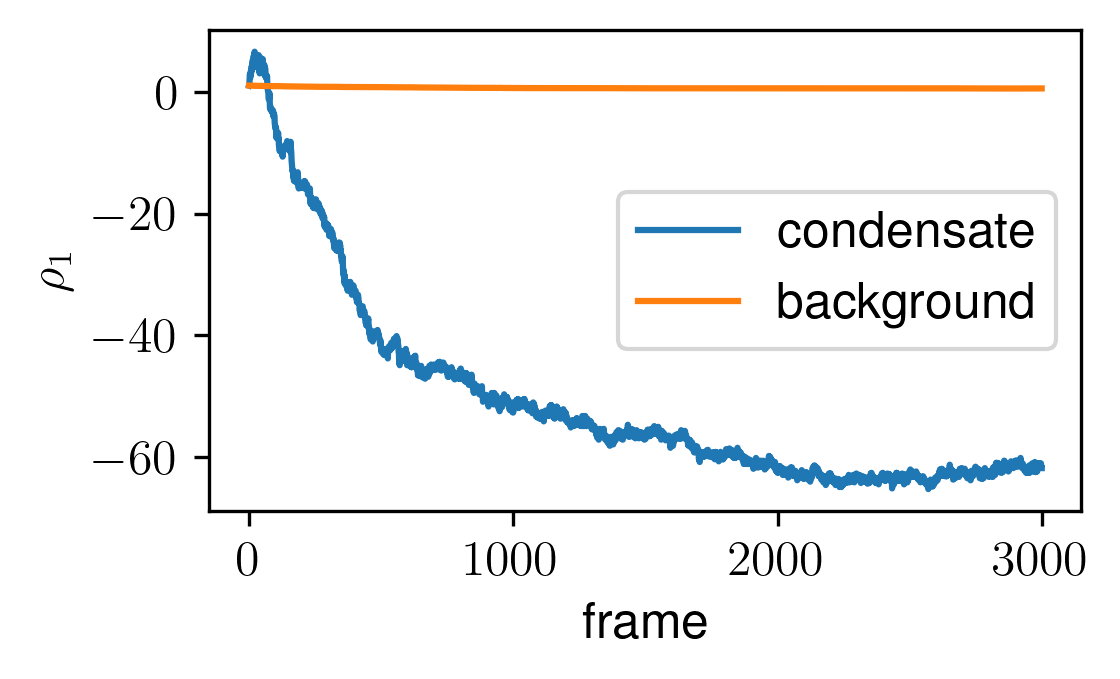
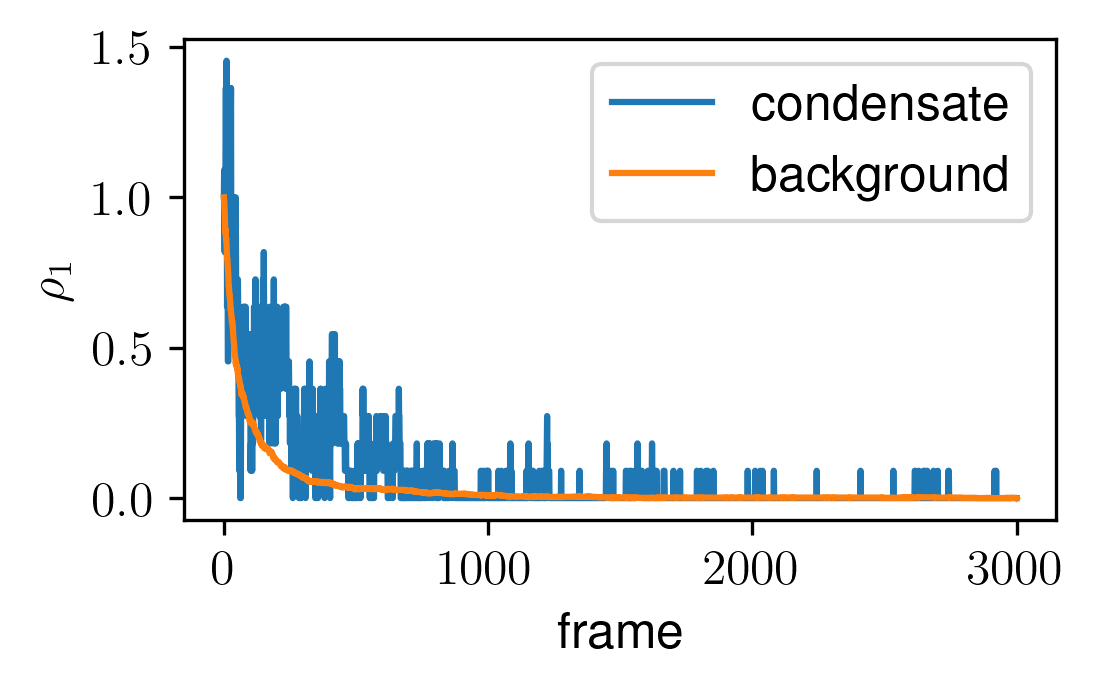
background monomer concentration scripts

diff --git a/scripts/get_monomer_background_conc.py b/scripts/get_monomer_background_conc.py
@@ -1,0 +1,91 @@
+#Get concentration of monomers in background (+ condensate)
+
+import matplotlib.pyplot as plt
+import numpy as np
+import sys
+import numpy.linalg as la
+import os
+import pickle
+import gsd.hoomd
+
+import AnalysisTools.particle_io as pio
+import AnalysisTools.measurement_tools as tools
+
+myfile = sys.argv[1]  #traj.gsd
+myfile2 = sys.argv[2] #traj.cl
+
+fileparts = myfile.split('/')
+outfile = myfile.replace('traj.gsd', 'monomer_conc_traj.txt')
+
+Vr = [e.split('=')[1] for e in fileparts if e.split('=')[0]=='Vr']
+L = [e.split('=')[1] for e in fileparts if e.split('=')[0]=='L']
+N = [e.split('=')[1] for e in fileparts if e.split('=')[0]=='N']
+Ec = [e.split('=')[1] for e in fileparts if e.split('=')[0]=='E_cond']
+seed = [e.split('=')[1] for e in fileparts if e.split('=')[0]=='seed']
+Vr = float(Vr[0])
+L = float(L[0])
+N = int(N[0])
+Ec = float(Ec[0])
+seed = int(seed[0])
+print(L)
+print(Vr)
+print(N)
+print(Ec)
+print(seed)
+
+Vcond = (L**3)*Vr
+Rcond = (Vcond/(4.0*np.pi/3.0))**(1.0/3)
+print(Rcond)
+
+#Load actual trajectory
+traj = pio.load_traj(myfile)
+pos = traj['pos']
+
+traj2 = gsd.hoomd.open(myfile)
+
+#Load size distribution
+with open(myfile2,mode='rb') as f:
+    cluster_data = pickle.load(f)
+#counts = np.loadtxt(myfile2)
+#tot_monomer_count = counts[:,1]
+
+traj_len = pos.shape[0]
+
+print(traj_len)
+print(dir(cluster_data))
+print(len(cluster_data.__dict__['monomer_ids']))
+
+num_out_condensate = np.zeros(pos.shape[0])
+rho1_bg = np.zeros(pos.shape[0])
+rho1_c = np.zeros(pos.shape[0])
+for t in range(pos.shape[0]-1):
+    print(t)
+    monomer_id_list = sorted([int(e) for e in cluster_data.__dict__['monomer_ids'][t]])
+    tot_monomer_count = len(monomer_id_list)
+    ncount=0
+    for i in range(pos.shape[1]):
+        #print(monomer_id_list)
+        #check if (1) atom is a "Capsomer" (2) atom is within Rcond of origin (3) atom is in the monomer list
+        if traj['particle_typeids'][i]==0 and la.norm(pos[t,i,:])>(Rcond) and (traj2[t].particles.body[i] in monomer_id_list):#tools.get_dist(pos[t,i,:], np.zeros(3), traj['edges'])<=Rcond:
+            num_out_condensate[t]+=1
+    print('concentration in condensate/bulk:', (tot_monomer_count-num_out_condensate[t])/Vcond, (num_out_condensate[t])/(L**3-Vcond))
+    rho1 = (tot_monomer_count - num_out_condensate[t])/Vcond
+    rho2 = num_out_condensate[t]/(L**3-Vcond)
+    rho1_bg[t] = rho2
+    rho1_c[t] = rho1
+with open(outfile, 'w') as f:
+    f.write('frame rho1_bg rho1_c\n')
+    for t in range(pos.shape[0]):
+        f.write('%d %f %f\n' % (t, rho1_bg[t], rho1_c[t]))
+
+fig = plt.figure()
+plt.plot(np.arange(0,pos.shape[0],1), rho1_c/rho1_c[0], label='condensate')
+plt.plot(np.arange(0,pos.shape[0],1), rho1_bg/rho1_bg[0], label='background')
+if not os.path.isdir('plots/monomer_density'):
+    os.makedirs('plots/monomer_density')
+plt.xlabel('frame')
+plt.ylabel(r'$\rho_1$')
+plt.legend()
+plt.savefig('plots/monomer_density/monomer_density_vs_time_N=%d_L=%.01f_Vr=%.03f_Ec=%f_seed=%d.png' % (N, L, Vr, Ec, seed))
+#plt.show()
+

diff --git a/scripts/get_avg_monomer_conc.py b/scripts/get_avg_monomer_conc.py
@@ -1,0 +1,53 @@
+#Compute average yield (w/ error bars) vs time
+
+import numpy as np
+import sys
+import os
+import gsd.hoomd
+
+myfolder = sys.argv[1]
+
+#Get num subunits from folder name
+#(really should be extracting this info from traj.sizes)
+nsubunits = int(([e for e in myfolder.split('/') if e.startswith('N=')][0]).split('=')[-1])
+#print(nsubunits)
+
+started = 0
+traj_len = 0
+nsamples = 0
+for i in range(10):
+
+    if os.path.exists(myfolder + ("seed=%d/monomer_conc_traj.txt" % (i+1))):
+        nsamples += 1
+        data = np.loadtxt(myfolder + ("seed=%d/monomer_conc_traj.txt" % (i+1)),skiprows=1)
+        traj_len = data.shape[0]
+        myRho1BG = data[:,1]
+        myRho1BGSq = myRho1BG**2
+        myRho1C = data[:,2]
+        myRho1CSq = myRho1C**2
+        if started==0:
+            started = 1
+            avgRho1BG = np.zeros(data.shape[0])
+            stddevRho1BG = np.zeros(data.shape[0])
+            avgRho1C = np.zeros(data.shape[0])
+            stddevRho1C = np.zeros(data.shape[0])
+
+        avgRho1BG += myRho1BG
+        stddevRho1BG += myRho1BGSq
+        avgRho1C += myRho1C
+        stddevRho1C += myRho1CSq
+
+if nsamples>0:
+    avgRho1BG *= 1.0/nsamples
+    avgRho1C *= 1.0/nsamples
+    
+    stddevRho1BG *= 1.0/nsamples
+    stddevRho1BG -= avgRho1BG**2
+    stddevRho1BG = np.sqrt(stddevRho1BG)
+    
+    stddevRho1C *= 1.0/nsamples
+    stddevRho1C -= avgRho1C**2
+    stddevRho1C = np.sqrt(stddevRho1C)
+
+np.savetxt(myfolder + '/monomer_conc_avg.txt', np.c_[np.arange(traj_len),avgRho1BG,stddevRho1BG,avgRho1C,stddevRho1C], header='No. samples = %d (frame, rho1bg_avg, rho1bg_stddev, rho1c_avg, rho1c_stddev)' % nsamples)
+

diff --git a/scripts/cluster_track_pos.py b/scripts/cluster_track_pos.py
@@ -1,0 +1,36 @@
+#Get cluster size distribution from gsd file
+
+from SAASH import analyze
+from SAASH.util import observer as obs
+import sys
+
+def setup_observer(gsd_file, run_type, observables = None, jump=1):
+
+    #init an observables with the file and run type
+    observer = obs.Observer(gsd_file, run_type, jump = jump)
+    observer.set_focus_list([12]) #get capsid bond info
+    observer.set_ngrid_cutoff(2.2)
+
+    if observables is not None:
+        for observable in observables:
+            observer.add_observable(observable)
+
+    return observer
+
+
+if __name__ == "__main__":
+
+    #get command line args for gsd_file, ixn_file, and number of frames to jump
+    try:
+        gsd_file = sys.argv[1]
+        ixn_file = sys.argv[2]
+        jump     = int(sys.argv[3])
+    except:
+        print("Usage: %s <gsd_file> <ixn_file> <frame_skip>" % sys.argv[0])
+        raise
+
+    #do a bulk analysis run - tracks number of clusters of each size every jump frames
+    observables = ['num_bodies','bonds','positions']
+    observer = setup_observer(gsd_file, 'cluster', jump=jump,observables=observables)
+    analyze.run_analysis(gsd_file, ixn_file=ixn_file, observer=observer)
+

diff --git a/scripts/show_cluster_info.py b/scripts/show_cluster_info.py
@@ -1,0 +1,19 @@
+import numpy as np
+import pickle
+
+#myfile="/pscratch/sd/l/lfrechet/capsid-assembly/llps/droplet/assembly_trajectories/N=1200/L=144.2/Vr=0.005/E_cond=7.000000/E_bond=6.000000/seed=1/traj.cl"
+myfile='example.cl'
+
+with open(myfile,mode='rb') as f:
+    data = pickle.load(f)
+
+print(dir(data))
+#print(data.__dict__['monomer_types'])
+#print(len(data.__dict__['cluster_info']))
+#print(data.__dict__['cluster_info'])
+#print(data.__dict__['monomer_frac'])
+#print(data.__dict__['cluster_info'][1].__dict__)
+#print(len(data.__dict__['cluster_info'][1].__dict__['_ClusterInfo__stored_data']))
+print(len(data.__dict__['monomer_ids']))
+#print(len(data.__dict__['monomer_ids'][-1]))
+print(sorted([int(e) for e in data.__dict__['monomer_ids'][-1]]))
